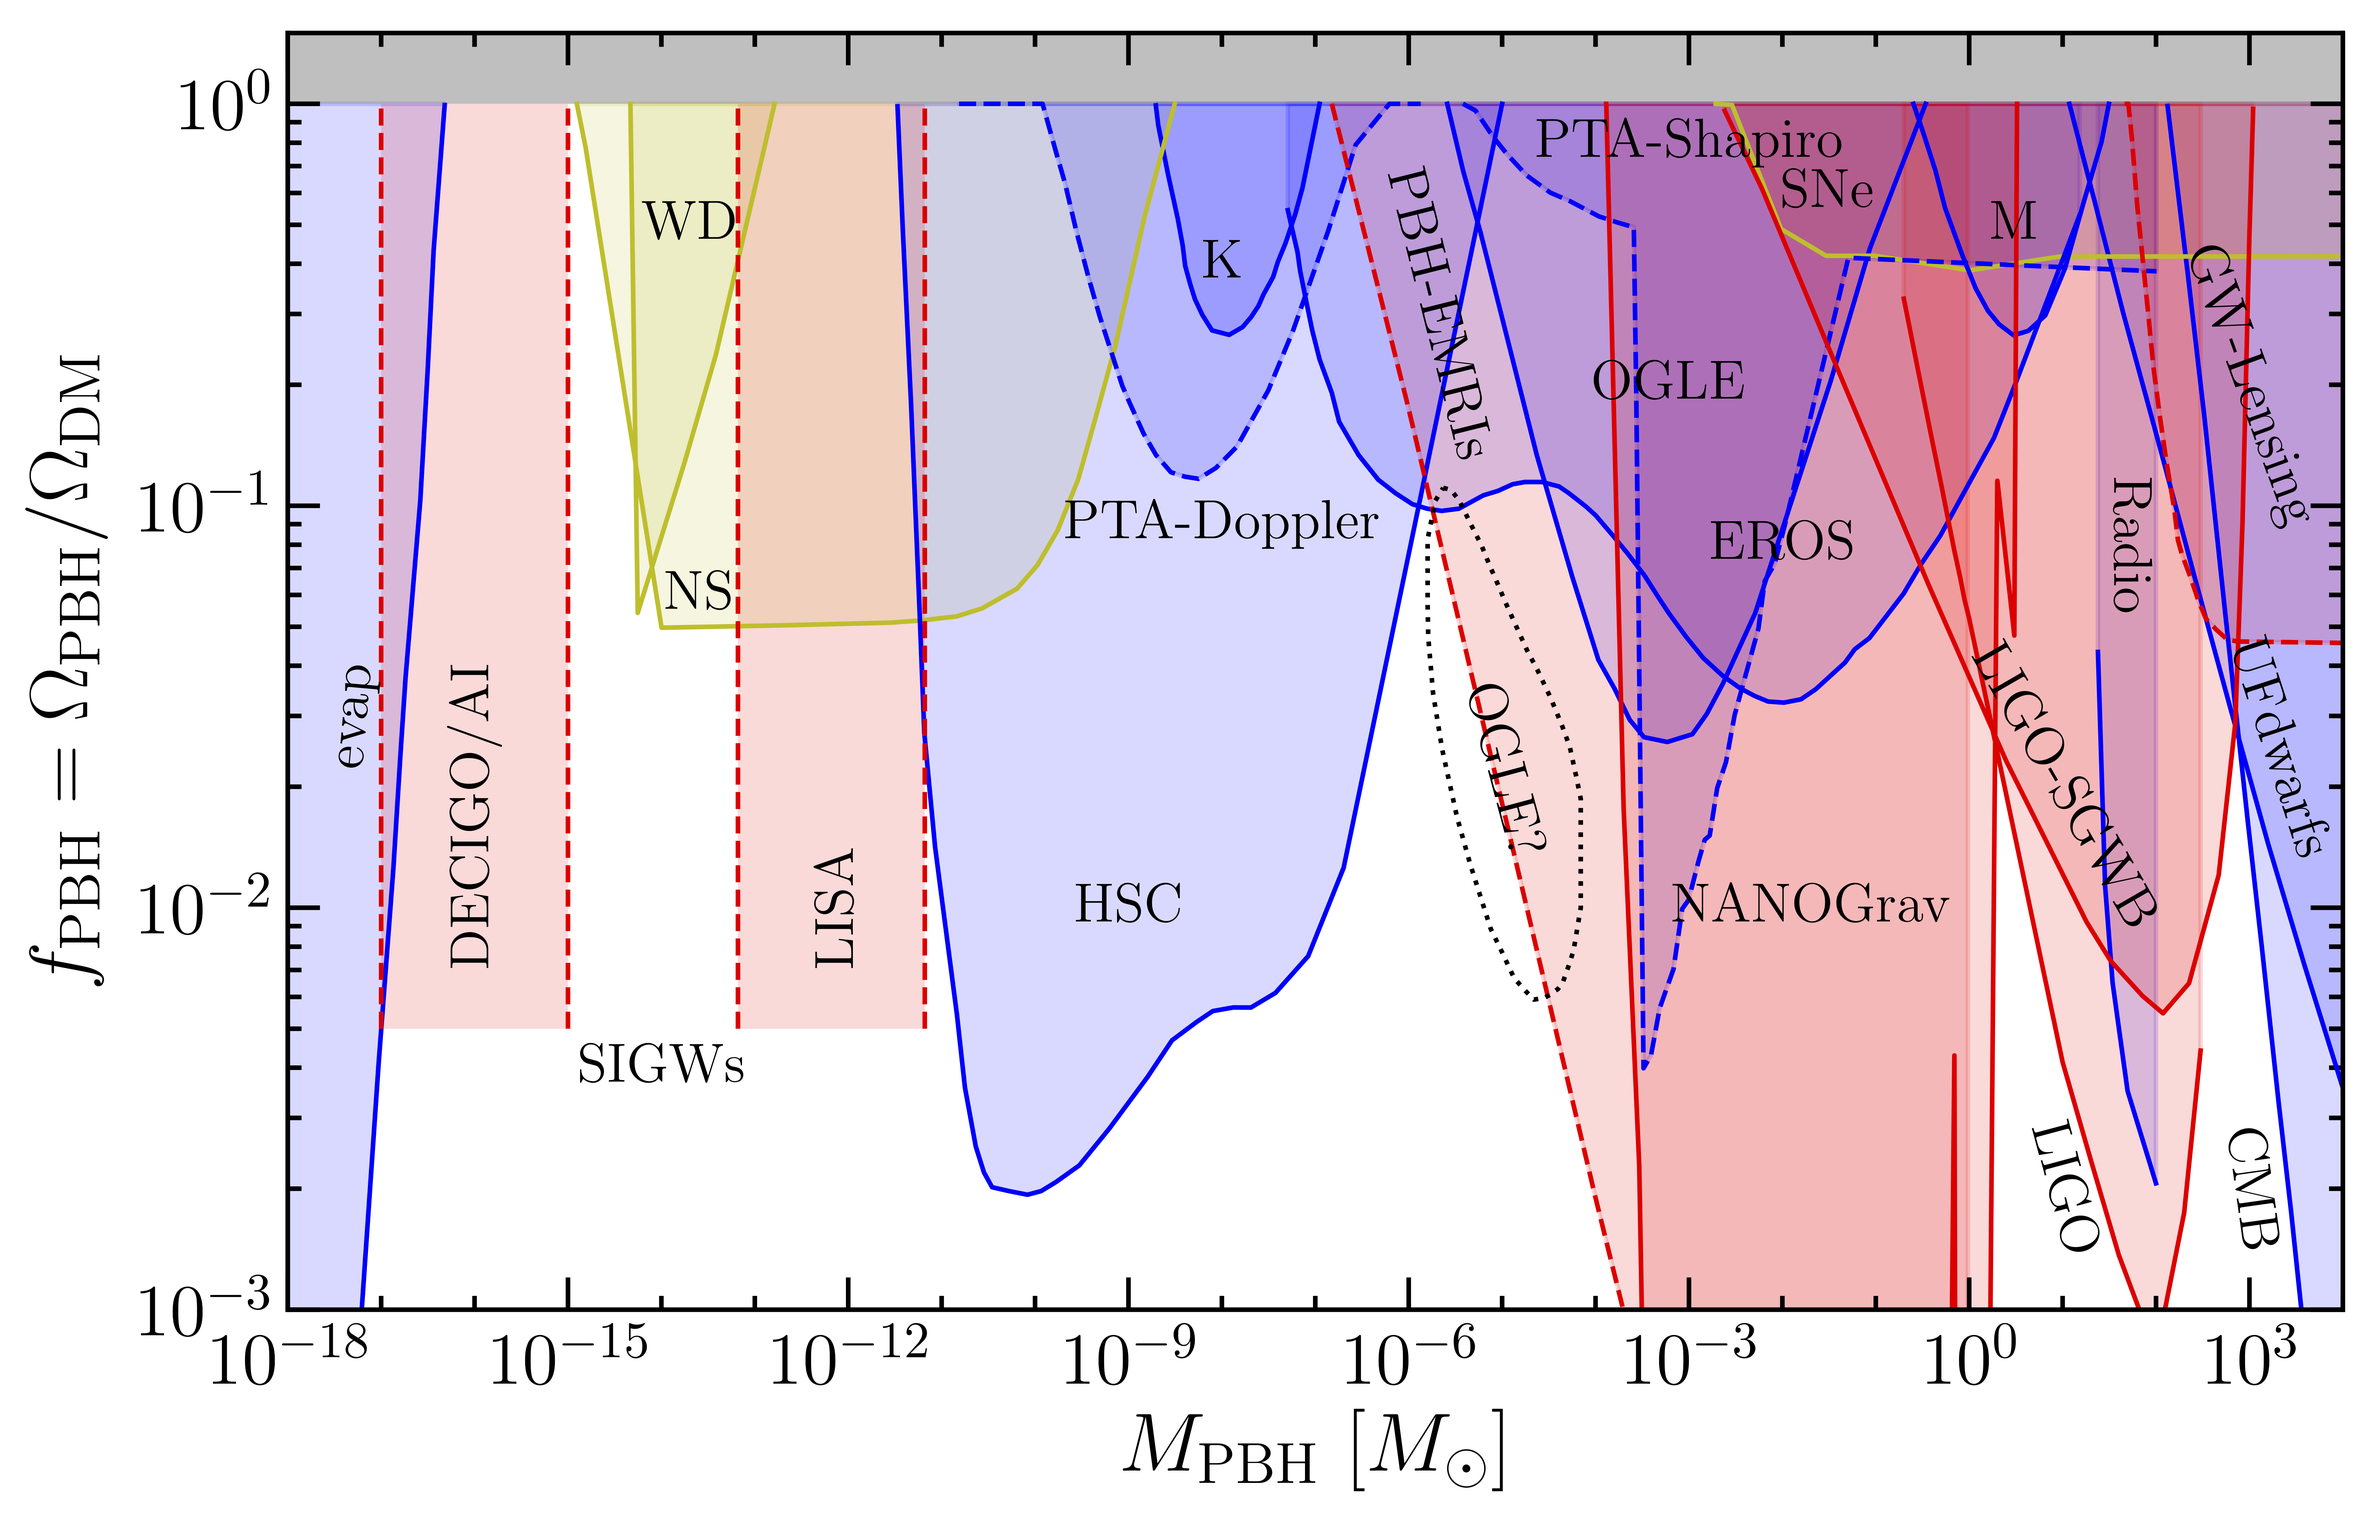
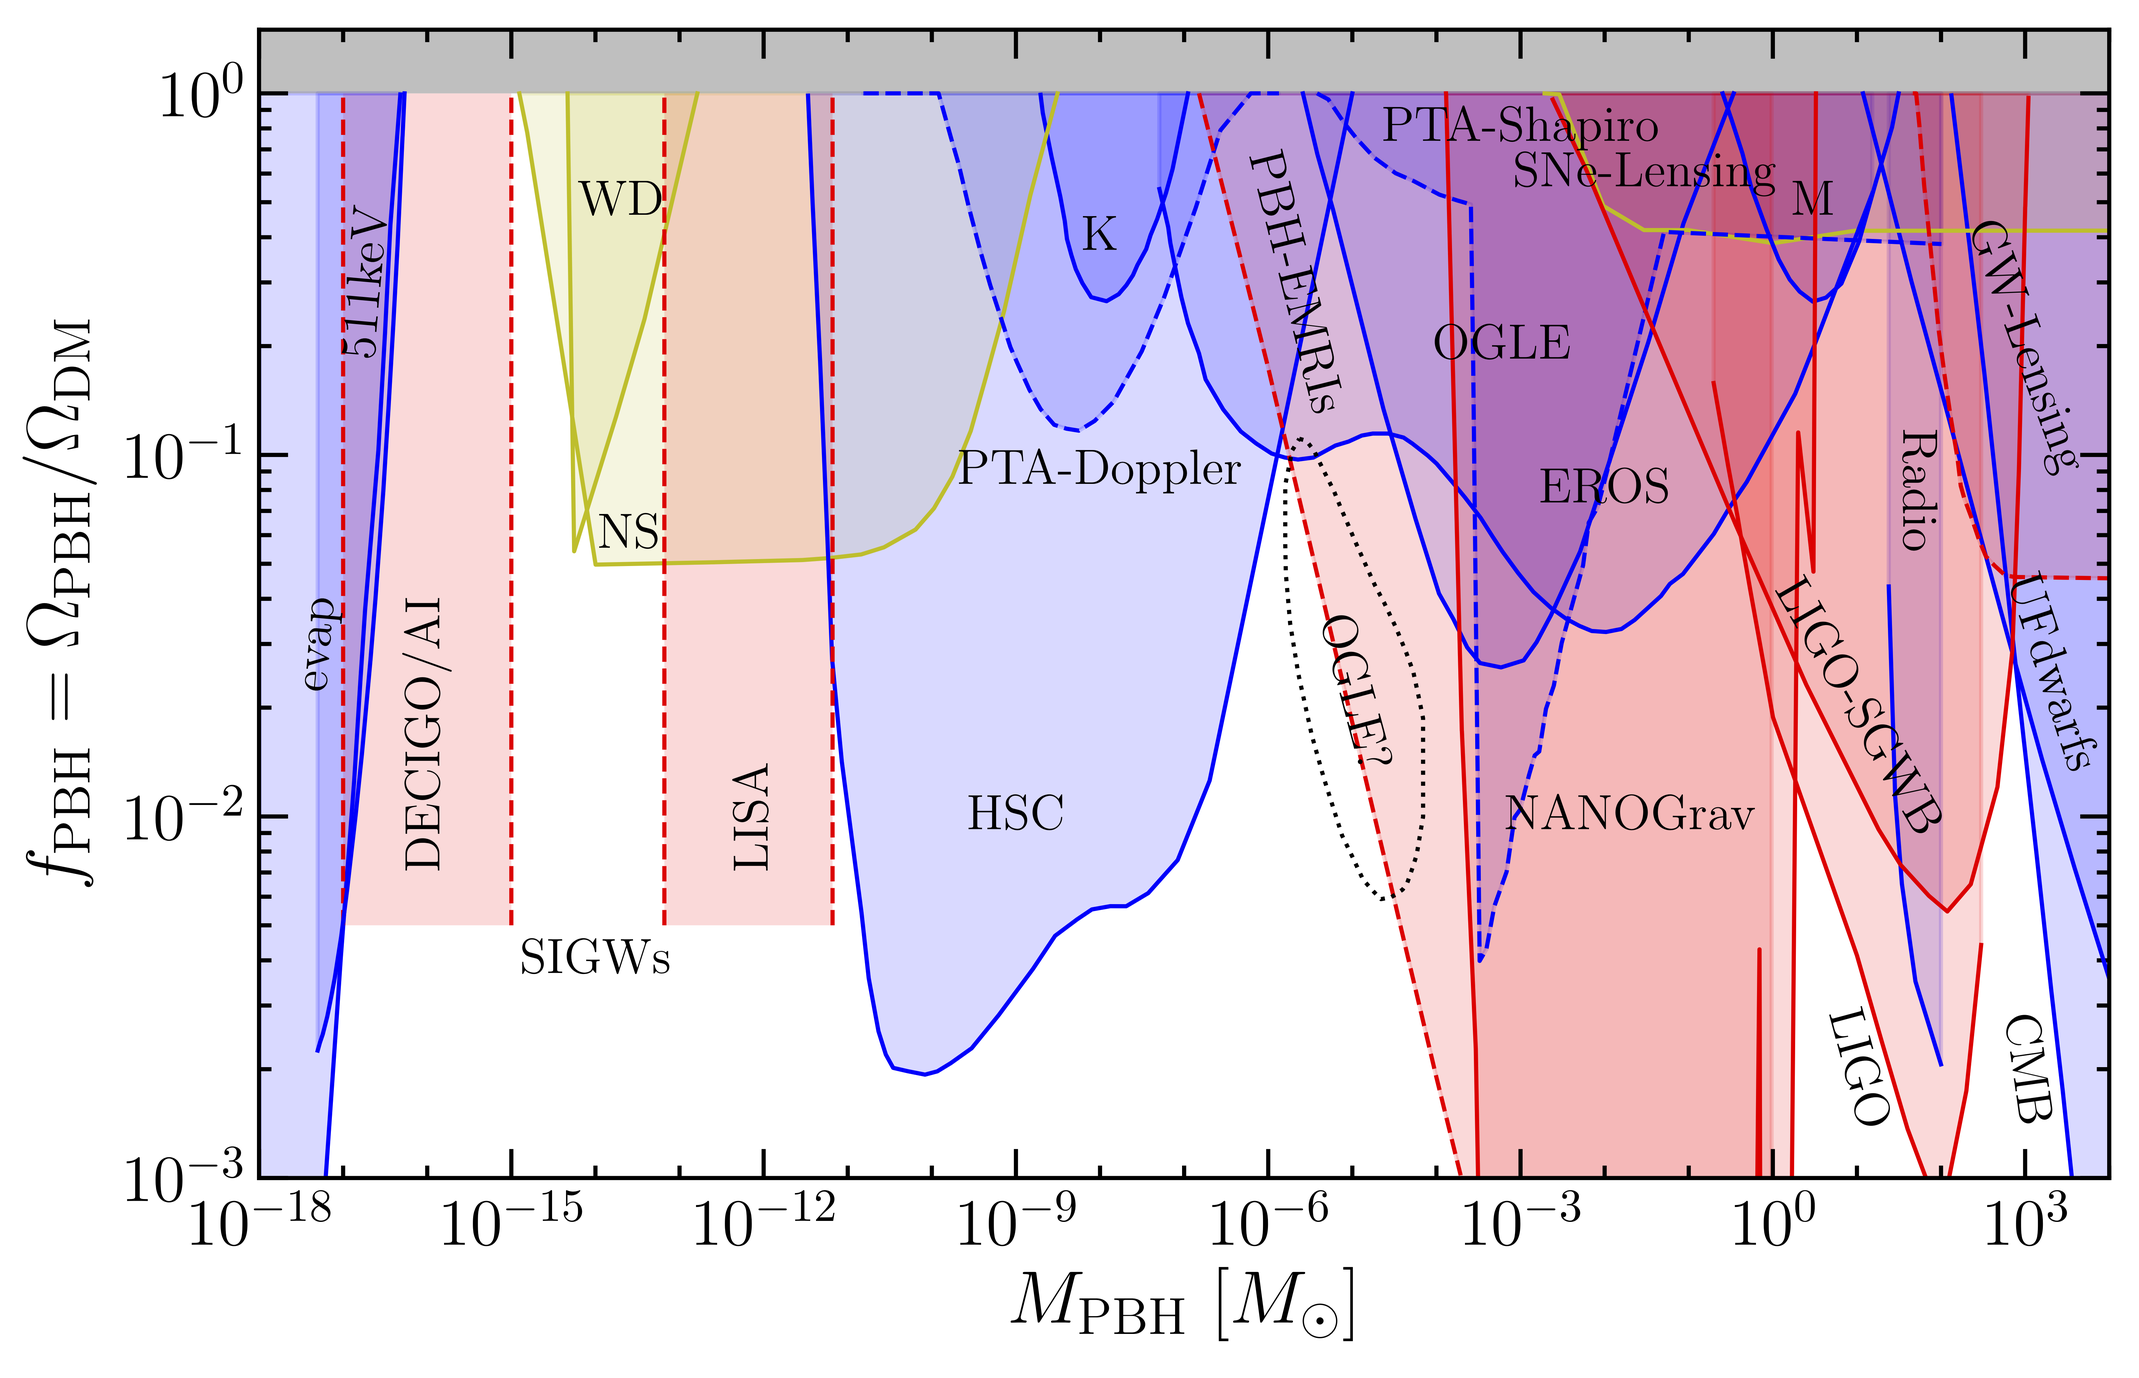
Added 511keV bounds

diff --git a/bounds/README.md b/bounds/README.md
@@ -2,7 +2,8 @@
 
 Check each individual file to find out precisely which constraint I'm using. Projected constraints are marked with a dagger (†).
 
-- **CMB**: Constraints from modification of the CMB spectrum due to accreting PBHs - [arXiv:1612.05644](https://arxiv.org/abs/1612.05644) 
+- **511keV**: Constraints on PBH evaporation from the 511 keV gamma ray line - [arXiv:1906.09994](https://arxiv.org/abs/1906.09994) and [arXiv:1906.07740](https://arxiv.org/abs/1906.07740)  
+- **CMB**: Constraints from modification of the CMB spectrum due to accreting PBHs - [arXiv:1612.05644](https://arxiv.org/abs/1612.05644)  
 - **EROS**: Microlensing constraints from EROS - [astro-ph/0607207](https://arxiv.org/abs/astro-ph/0607207)  
 - **evap**: Constraints from PBH evaporation (mostly extragalactic gamma-rays) - [arXiv:0912.5297](https://arxiv.org/abs/0912.5297)  
 - **FL**: Femto-lensing of gamma-ray bursts - [arXiv:1204.2056](https://arxiv.org/abs/1204.2056)  

diff --git a/README.md b/README.md
@@ -29,6 +29,9 @@ The plot style and some of the bounds are inspired by [arXiv:1801.00808](https:/
 
 **Version 1.0 (12/11/2019):** Release version. Created for the first [GW4FP workshop](https://indico.cern.ch/event/843270/) (Amsterdam 2019).
 
+**Updates:** 
+- 07/01/2020: added bounds on PBH evaporation from 511 keV gamma ray line
+
 ### Citation
 
 Feel free to use the bounds and code for anything you like, but please link to the repo if you do and cite the DOI: [10.5281/zenodo.3538999](https://doi.org/10.5281/zenodo.3538999).
